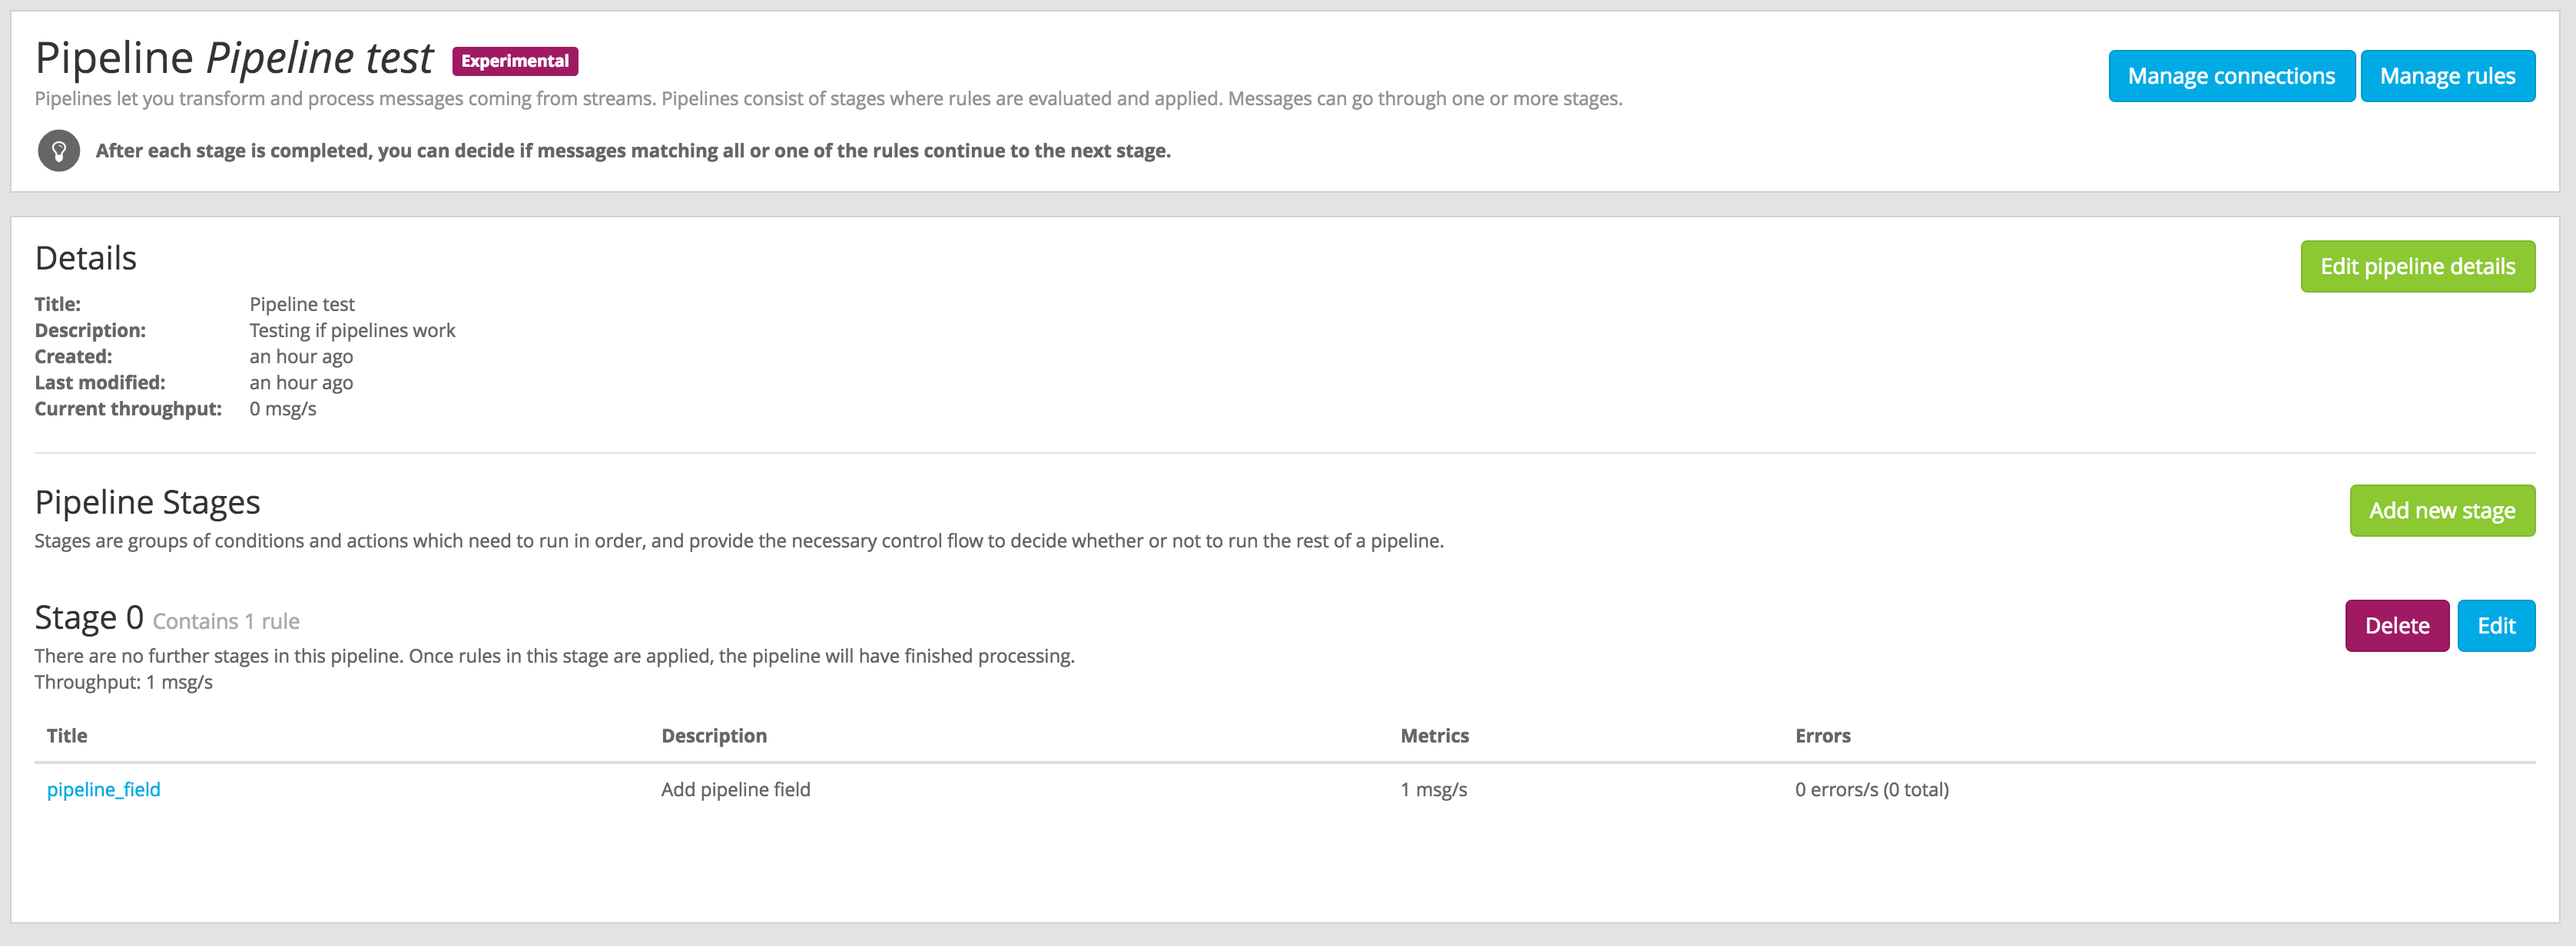
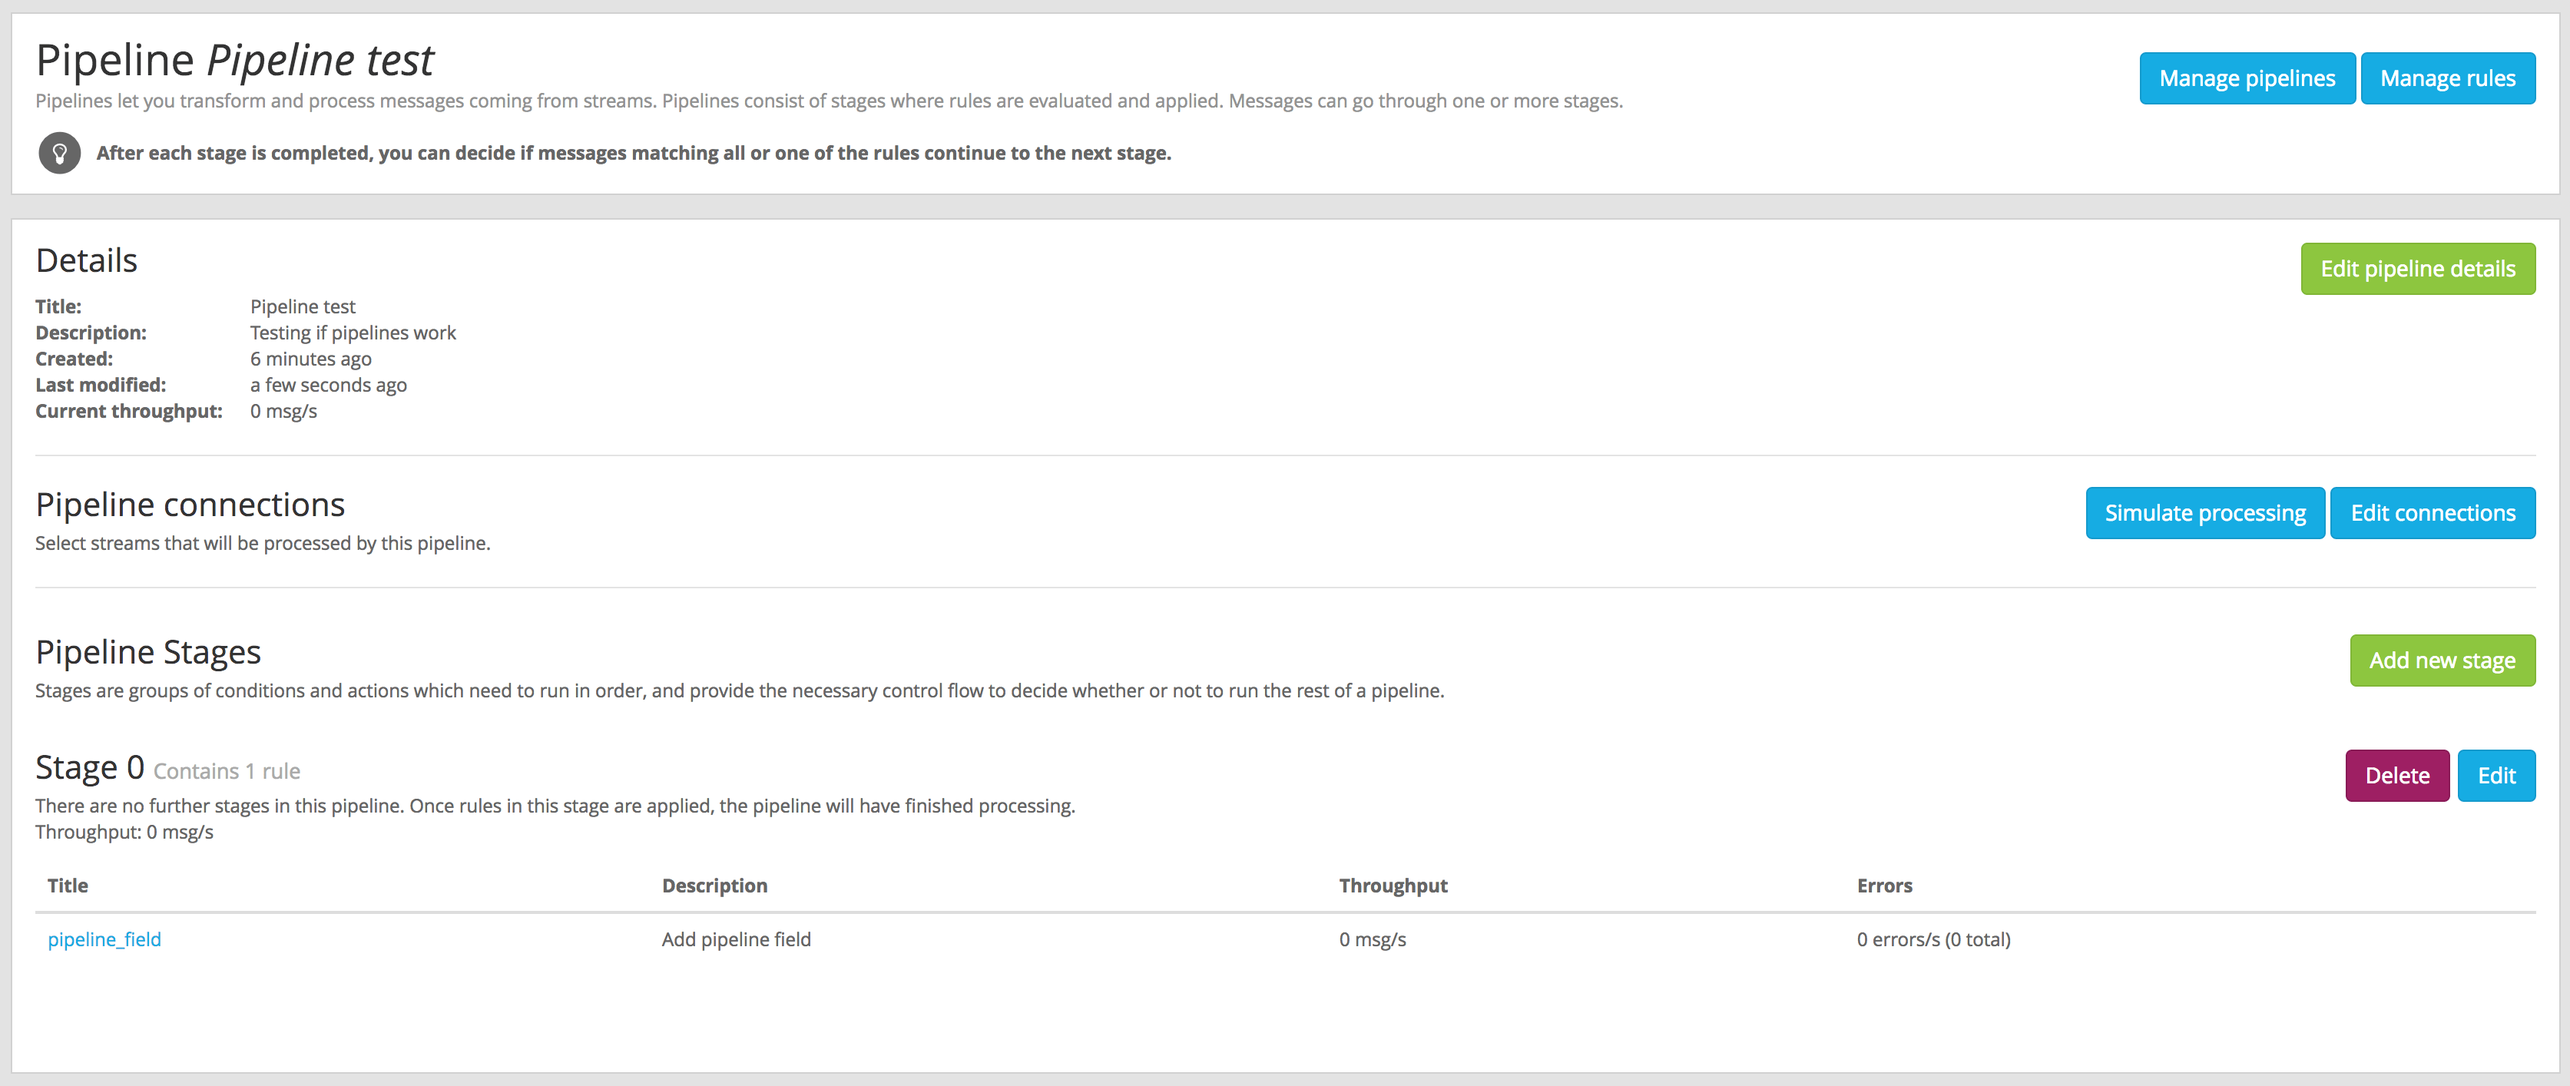
Update pipelines usage documentation

Changed region(s): [[0.0, 0.0, 1.0, 0.987]]

diff --git a/pages/pipelines/usage.rst b/pages/pipelines/usage.rst
@@ -44,10 +44,9 @@ Managing pipelines
 Once there are some rules in Graylog, you can create pipelines that use them to modify and enrich
 your messages.
 
-To manage your pipelines, please access the `Manage pipelines` page, under `System -> Pipelines`.
-From that page you can create new pipelines, edit existing pipelines, and delete pipelines you
+To manage your pipelines, access `Manage pipelines` page under `System -> Pipelines`.
+From that page you can create new pipelines, edit existing ones, and delete pipelines you
 don't need any more.
-
 
 .. image:: /images/pipelines_manage_pipelines.png
 
@@ -72,29 +71,28 @@ At least one of the rules on this stage matches the message
 Connect pipelines to streams
 ============================
 
-When you have created pipelines and connected rules to them, it's time to use those pipelines in
-your system.
-
-Manage the pipelines that are connected to streams by going to `System -> Pipelines`.
+You can decide which streams are connected to a pipeline from the pipeline details page. Under
+`System -> Pipelines`, click on the title of the pipeline you want to connect to a stream, and
+then click on the `Edit connections` button.
 
 .. image:: /images/pipelines_manage_connections.png
-
-Remember from the :doc:`stream_connections` documentation, that the `Default` stream is the one
-where all messages not routed into another stream go.
 
 You can assign many pipelines to the same stream, so they are all evaluated for all messages
 routed into such stream.
 
 .. image:: /images/pipelines_edit_connections.png
 
+Remember from the :doc:`stream_connections` documentation, that the `All messages` stream is the one
+where all messages are routed, and probably a good place to apply pipelines to all your messages.
+
 Simulate your changes
 =====================
 
-After performing some changes in processing pipelines, you most likely want to see how they are
+After performing some changes in a processing pipeline, you most likely want to see how they are
 applied to incoming messages. This is what the pipeline simulator is for.
 
-Click the `Simulate processing` button in your pipeline connections page to access the pipeline
-simulator.
+Click the `Simulate processing` button under `System -> Pipelines` or in the pipeline details page
+to access the pipeline simulator.
 
 .. image:: /images/pipelines_simulation_1.png
 
